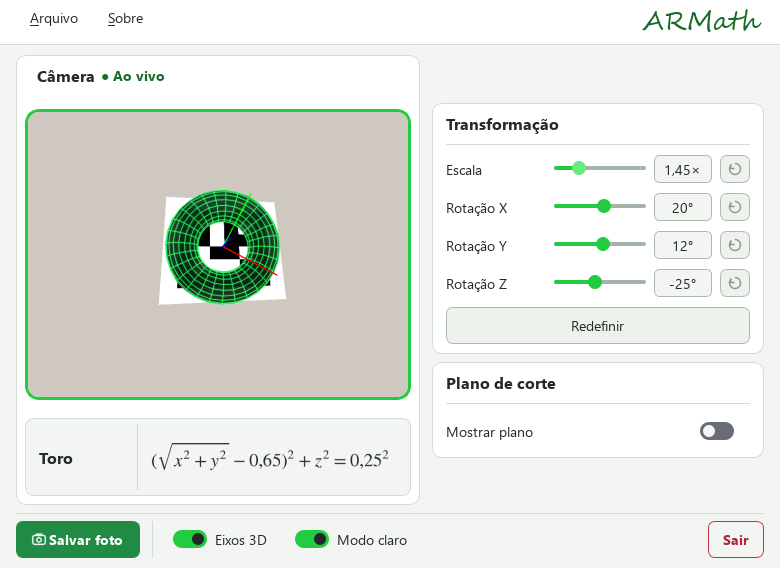
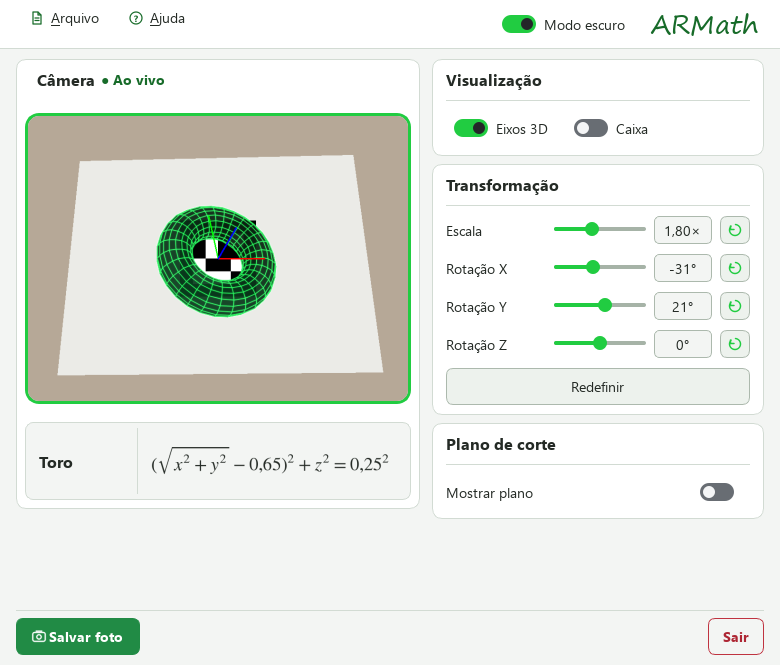
Atualiza a apresentação e as capturas do ARMath 2.0

diff --git a/ARMAth_2.0/README.md b/ARMAth_2.0/README.md
@@ -4,11 +4,17 @@ O ARMath 2.0 usa marcadores ArUco para projetar superfícies matemáticas sobre 
 
 ## O que mudou na versão 2.0
 
-A câmera e a equação ficam à esquerda. À direita, o cartão **Transformação** reúne os controles de escala e rotação, com redefinição individual ou em conjunto. Os eixos 3D acompanham a rotação da superfície. O cartão **Plano de corte** permite selecionar e deslocar um plano vermelho com malha amarela e destaca a interseção com a superfície em branco. A interface usa detalhes em verde neon e oferece temas escuro e claro.
+A câmera e a equação ficam à esquerda. Na coluna lateral, o painel **Visualização** reúne **Eixos 3D** e **Caixa**. O painel **Transformação** reúne escala, rotação e redefinição dos ajustes. Em **Plano de corte**, é possível deslocar um plano vermelho com malha amarela e observar a interseção em branco.
+
+O seletor de tema fica ao lado da marca **ARMath**, no canto superior direito. O menu **Ajuda** reúne o guia rápido, a pasta de marcadores, o [manual em PDF](docs/Manual_ARMath.pdf), o GitHub do projeto e a janela **Sobre o ARMath**.
 
 ## Telas do aplicativo
 
 As capturas mostram a interface do ARMath 2.0 com quadros simulados da câmera.
+
+**Painel Visualização com a caixa ativada**
+
+![Elipsoide delimitado por uma caixa de arestas brancas no ARMath 2.0](docs/imagens/armath-2-caixa.png)
 
 **Modo escuro com plano de corte e interseção em branco**
 
@@ -38,11 +44,12 @@ Os PNGs para imprimir estão na pasta `marcadores`. Para gerar mais cópias, exe
 - **Escala** ajusta o tamanho da superfície de **1× a 3×**, com valor inicial de **1×**.
 - **Rotação X, Y e Z** gira a malha em torno do centro do marcador. Cada controle vai de **−180° a 180°**.
 - **Eixos 3D** mostra os eixos X, Y e Z, que giram junto com a superfície.
+- **Caixa** mostra as arestas brancas de uma caixa retangular que delimita a superfície. A caixa acompanha a escala e a rotação da figura.
 - **Redefinir** volta à escala **1×** e às três rotações em **0°**.
 - O **ícone de seta circular** ao lado de cada valor restaura apenas aquele controle.
 - **Mostrar plano** exibe um plano vermelho preenchido com malha amarela. Escolha um único plano entre **XY**, **XZ** e **YZ**. O contorno branco destaca a interseção quando houver corte.
 - O **deslocamento do plano** começa na origem, no centro do deslizador. As duas pontas do controle levam o plano ao menor e ao maior valor da superfície no eixo perpendicular ao corte. O alcance acompanha a escala da figura. Use a seta circular para voltar à origem.
-- **Modo claro** alterna o tema da interface. O aplicativo abre no modo escuro.
+- **Modo claro** ativa o tema claro. Com ele ativo, o seletor passa a exibir **Modo escuro**. O aplicativo abre no tema escuro.
 - **Salvar foto** captura o quadro com a superfície no tamanho e na orientação atuais.
 
 A malha 3D aparece em verde neon sobre o vídeo. O nome e a equação são exibidos abaixo da prévia.

diff --git a/README.md b/README.md
@@ -1,6 +1,12 @@
 # ARMath
 
-Aplicativo de realidade aumentada para explorar superfícies matemáticas com uma câmera e marcadores ArUco.
+O **ARMath** é um aplicativo de realidade aumentada criado pelo Prof. Izaias Neri para o ensino de **Cálculo III**. Aponte uma webcam para um marcador ArUco para ver uma superfície tridimensional sobreposta ao vídeo, com seu nome e sua equação abaixo da imagem.
+
+Na **versão 2.0**, os alunos podem girar e ampliar superfícies, exibir os eixos e a caixa que delimita a figura e explorar interseções com planos de corte. Entre os exemplos estão o elipsoide, o toro e o paraboloide hiperbólico.
+
+![ARMath 2.0 com um elipsoide em verde dentro de uma caixa de arestas brancas](ARMAth_2.0/docs/imagens/armath-2-caixa.png)
+
+[Como executar o ARMath 2.0, imprimir os marcadores e usar os controles](ARMAth_2.0/README.md)
 
 ## Documentação
 
